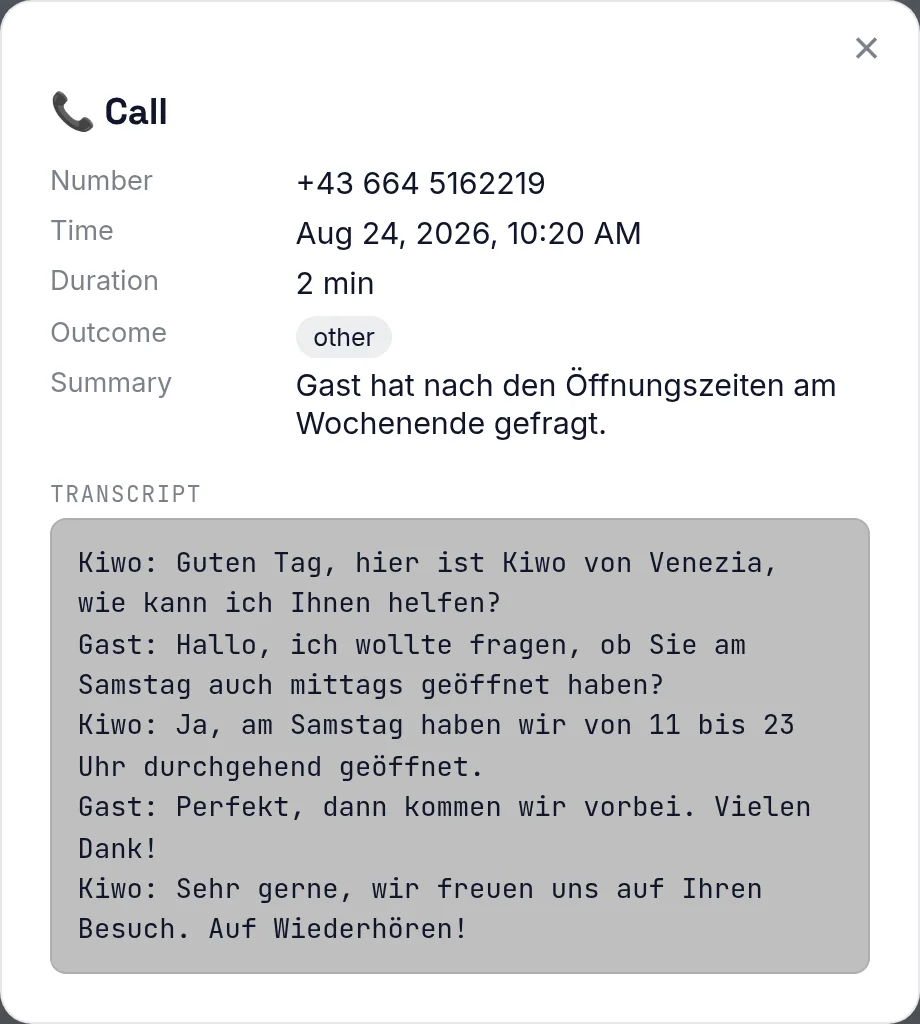
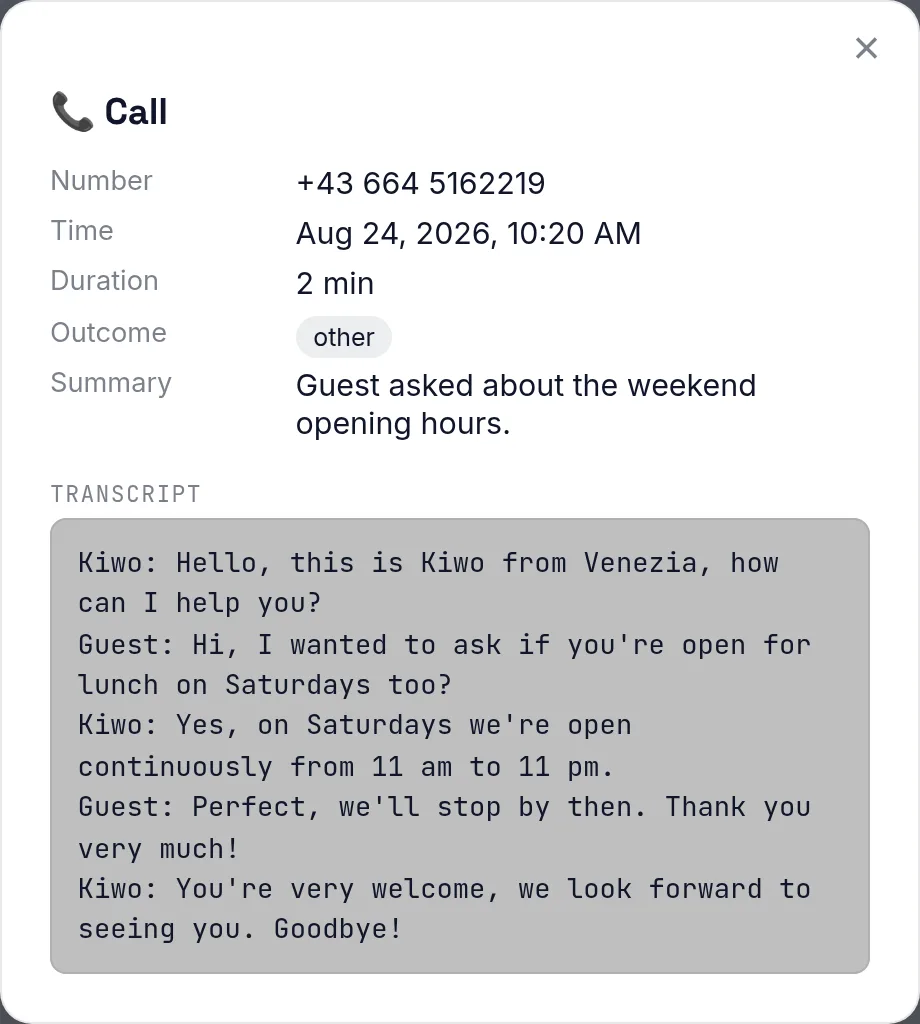
Anruf-Transkript im Dashboard-Screenshot jetzt auch EN/RO übersetzt
Nutzer-Korrektur: der Anruf im Screenshot ist kein echter Kundenanruf,
sondern von mir erfundener Demo-Inhalt für den Screenshot - genau wie
die ohnehin schon dreisprachigen Beispiel-Gespräche im "Live testen"-
Abschnitt. Zusammenfassung + Transkript für EN/RO übersetzt und
Screenshots neu erzeugt, statt sie fälschlich als "echte deutsche
Anrufdaten" zu behandeln.

Claude-Session: https://claude.ai/code/session_013ZANi9DQSnMR79U5eaqx7g

diff --git a/CLAUDE.md b/CLAUDE.md
@@ -1568,13 +1568,15 @@ Version auf "Publish" klicken.
   Kunden-Login) auch EN- und RO-Versionen erzeugt — Dashboard über
   `?lang=en`/`?lang=ro` aufgerufen (dashboard-eigener
   Mehrsprachigkeits-Support, siehe Mehrsprachigkeit-Eintrag), macht
-  daraus je Light/Dark einen Screenshot. **Bewusst NICHT übersetzt:**
-  der eigentliche Anruf-Zusammenfassungs-/Transkript-**Inhalt** bleibt in
-  allen 3 Bildvarianten Deutsch — das ist echtes Verhalten, keine Lücke:
-  Kiwo telefoniert aktuell ausschließlich Deutsch (siehe „Mehrsprachigkeit
-  am Telefon" unter Ideen), nur die Dashboard-**Oberfläche** (Labels wie
-  „Apel"/„Call", „TRANSKRIPT"/„TRANSCRIERE") ist mehrsprachig. `App.jsx`
-  wählt die Bilddatei jetzt dynamisch über die aktuelle `locale`
+  daraus je Light/Dark einen Screenshot. **Korrektur (26.08.2026):** der
+  Anruf-Zusammenfassungs-/Transkript-Inhalt im Screenshot blieb zunächst
+  Deutsch (Begründung: Kiwo telefoniert aktuell nur Deutsch) — Nutzer wies
+  zu Recht darauf hin, dass das kein echter Anruf ist, sondern von mir
+  erfundener Demo-Inhalt für den Screenshot (genau wie die ohnehin schon
+  dreisprachigen Beispiel-Gespräche im "Live testen"-Abschnitt) und daher
+  genauso übersetzt werden sollte. Zusammenfassung+Transkript für EN/RO
+  nachträglich übersetzt, Screenshots neu erzeugt. `App.jsx` wählt die
+  Bilddatei dynamisch über die aktuelle `locale`
   (`/screenshots/overview-${locale}-{light,dark}.webp`) statt fixer
   Dateinamen. Lokal per Playwright auf allen 3 Sprachversionen verifiziert
   (korrekte `img[src]` pro Locale, keine fehlgeschlagenen Bild-Requests).
